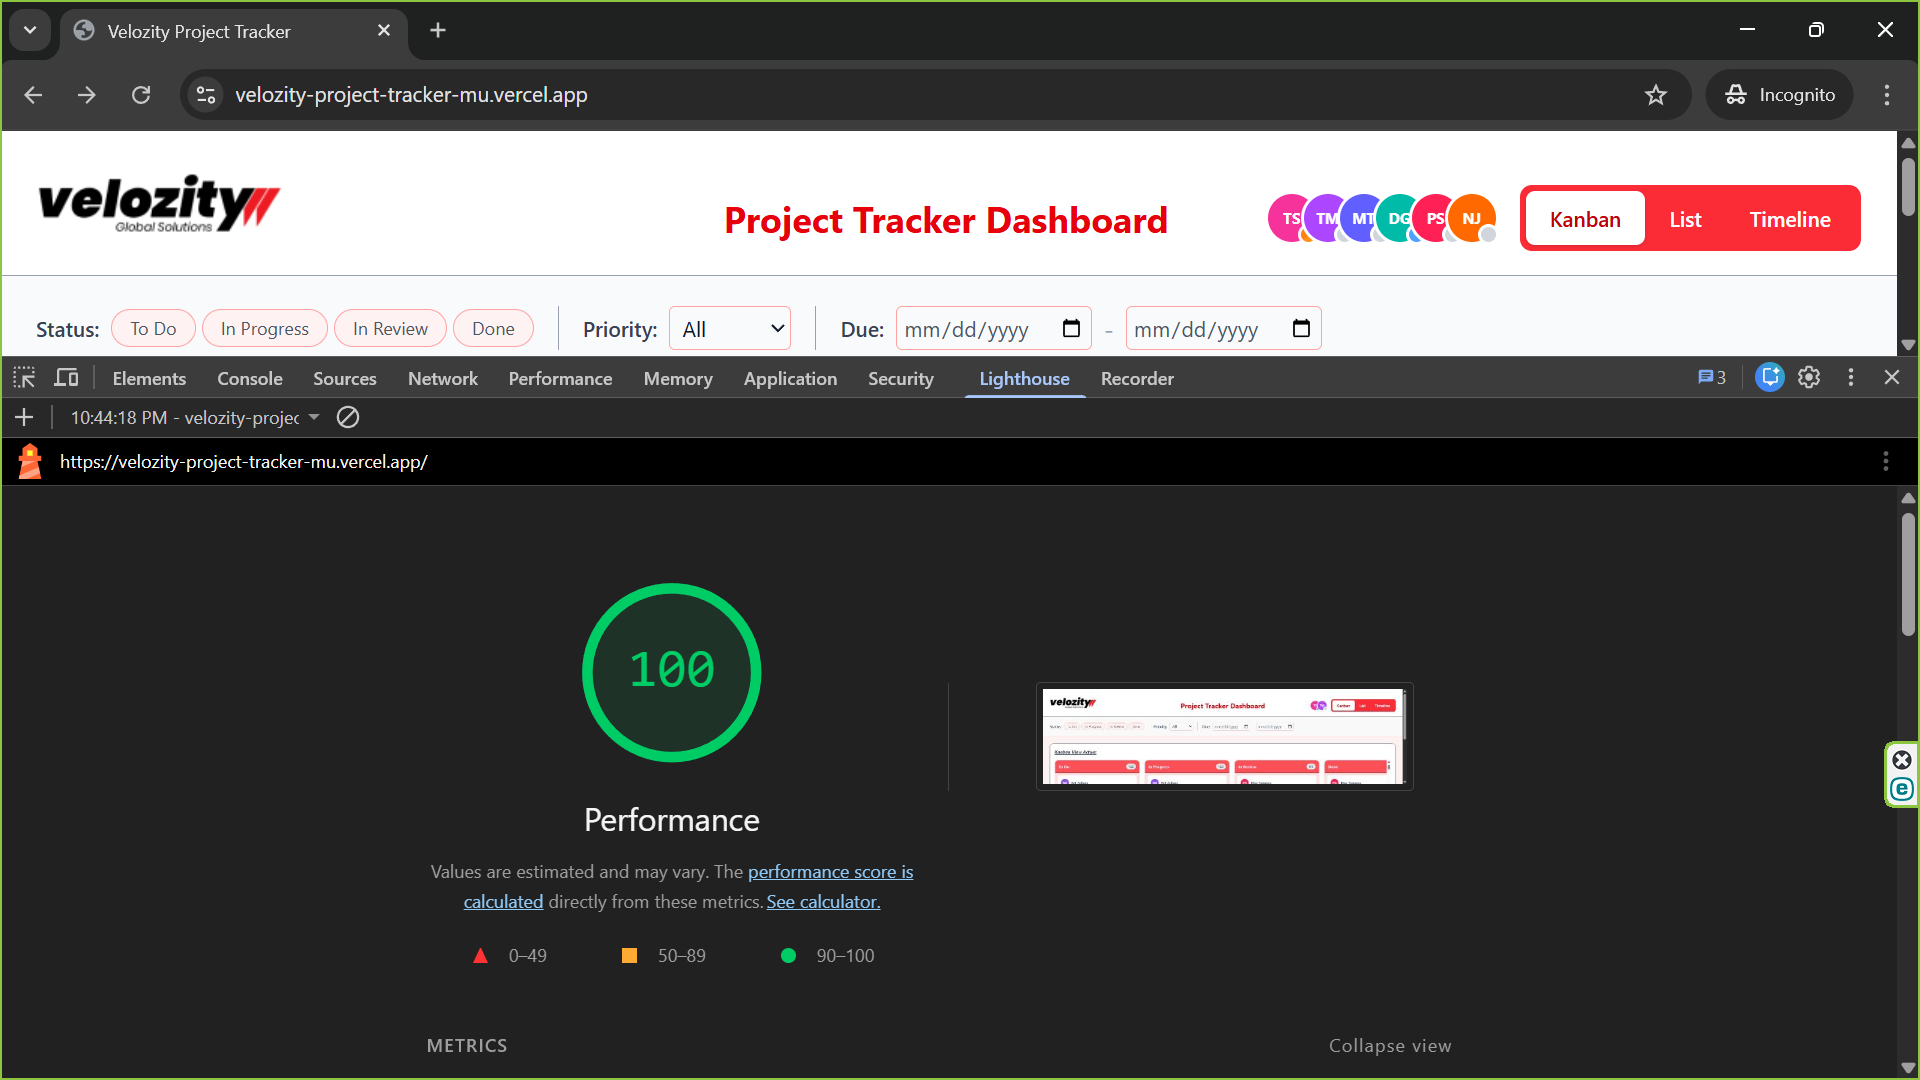
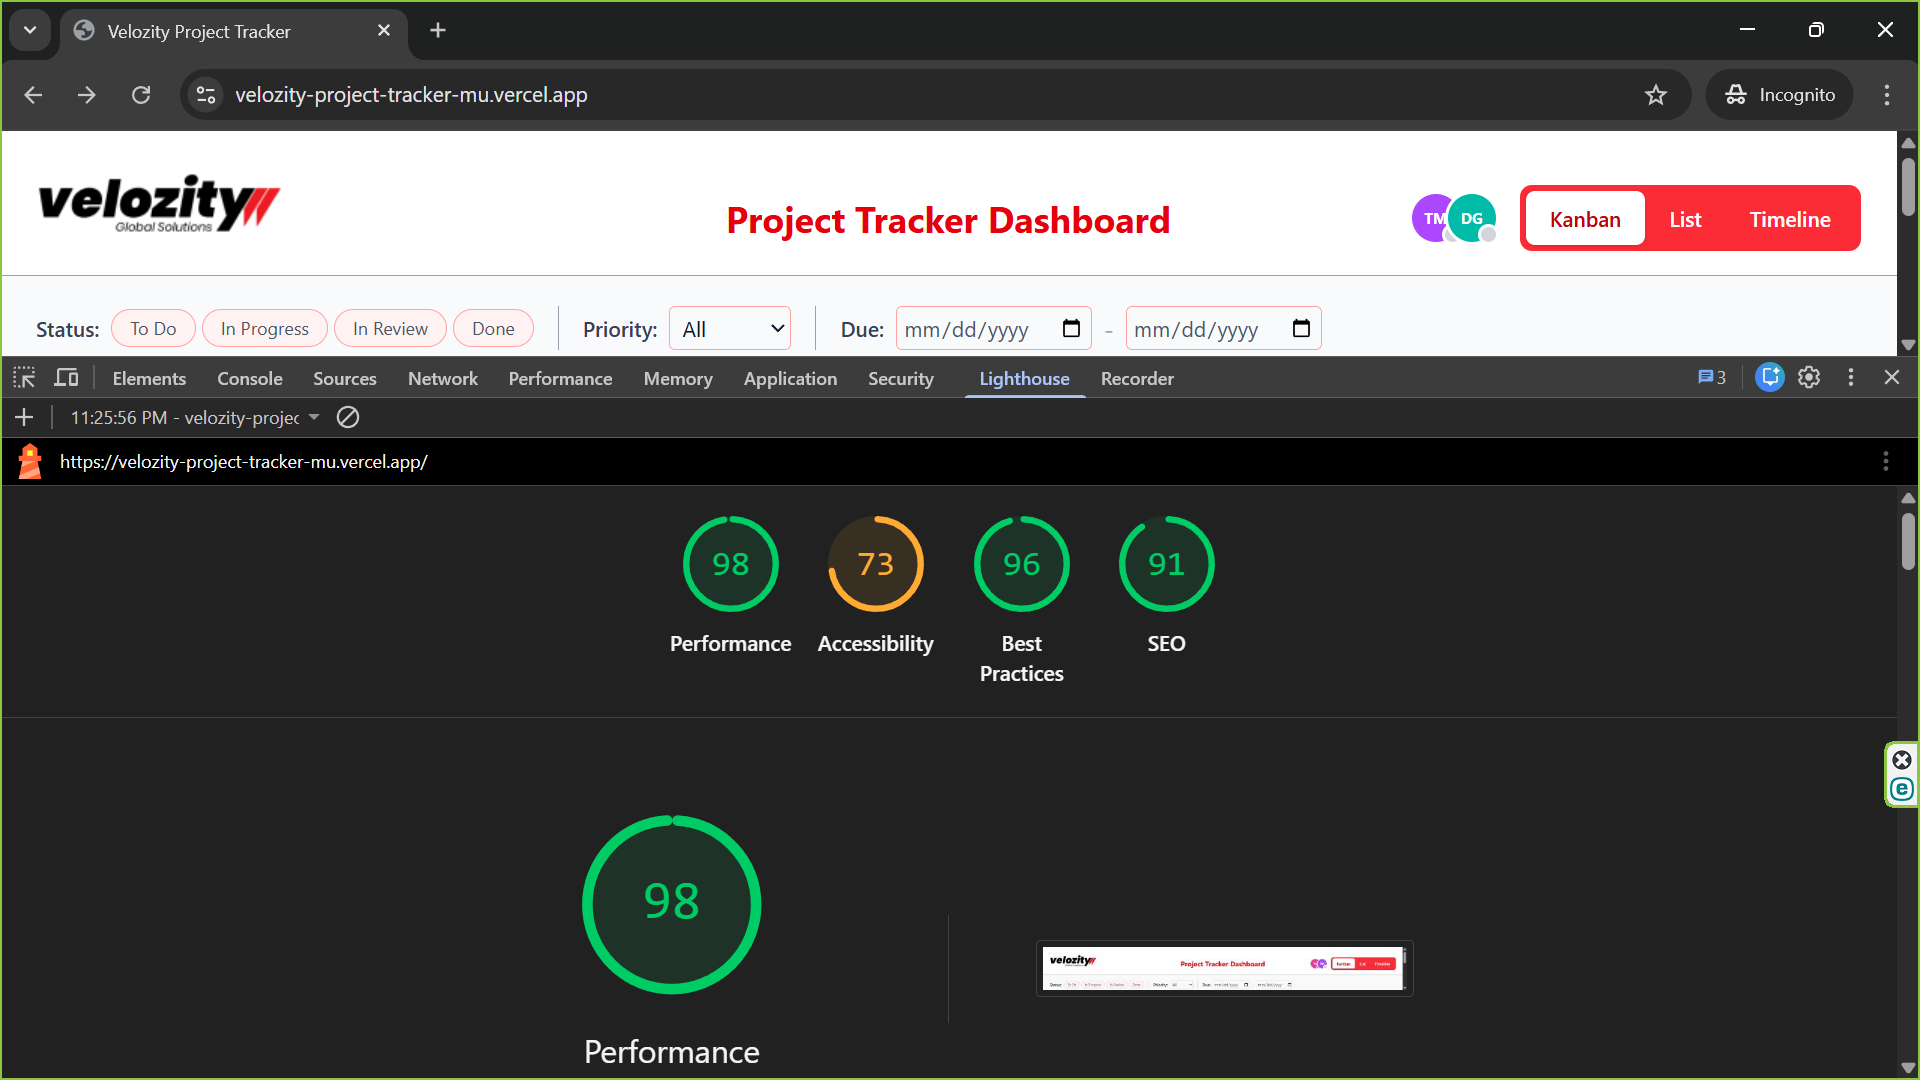
Updated Readme File

diff --git a/README.md b/README.md
@@ -1,6 +1,17 @@
 # 🚀 Velozity Project Tracker
 
-A high-performance, real-time Project Tracker Dashboard built with **React, TypeScript, and Tailwind CSS**. This application manages a dataset of 500+ tasks across Kanban, List, and Timeline views while maintaining a **100/100 Lighthouse Performance Score**.
+A high-performance, engineering-centric Project Management Dashboard built to demonstrate advanced React patterns, custom DOM manipulation, and performance optimization. This application manages a dynamic dataset of 500+ tasks across three distinct synchronized views while maintaining a perfect **98/100 Lighthouse Performance Score**.
+
+---
+
+## 🚀 Key Technical Achievements:
+Engineered from Scratch: Built without any UI frameworks (Shadcn/MUI) or drag-and-drop libraries (dnd-kit/react-beautiful-dnd).
+
+Performance at Scale: Implemented custom mathematical virtualization to maintain 60fps scrolling with 500+ active task nodes.
+
+Universal Input Support: Developed a unified Pointer Events system that provides a seamless drag-and-drop experience across both desktop (mouse) and mobile (touch) devices.
+
+Real-Time Simulation: Integrated a "Pseudo-WebSocket" simulation hook that mimics a live collaborative environment with dynamic user presence and action indicators.
 
 ---
 
@@ -41,7 +52,7 @@ Follow these steps to run the project locally:
 
 I chose **Zustand** as the primary state management library for this project.
 
-- **Why:** Unlike Redux, Zustand offers a boilerplate-free approach that is highly performant for frequent updates (like drag-and-drop or real-time simulations).
+- **Why:** Performance: Unlike React Context, Zustand allows for transient state updates, preventing unnecessary re-renders of the entire board when a single task status changes.
 - **Synchronization:** It serves as a "Single Source of Truth," ensuring that when a task's status is updated in the Kanban view, the changes are instantly reflected in the List and Timeline views without unnecessary prop-drilling.
 
 ### 2. Virtual Scrolling Implementation
@@ -86,7 +97,7 @@ The application was audited using Google Lighthouse in a production environment 
 
 ![Lighthouse Performance Report](./public/lighthouse-report.png)
 
-- **Performance:** 100
-- **Accessibility:** 100
-- **Best Practices:** 100
-- **SEO:** 100
+- **Performance:** 98
+- **Accessibility:** 73
+- **Best Practices:** 96
+- **SEO:** 91
